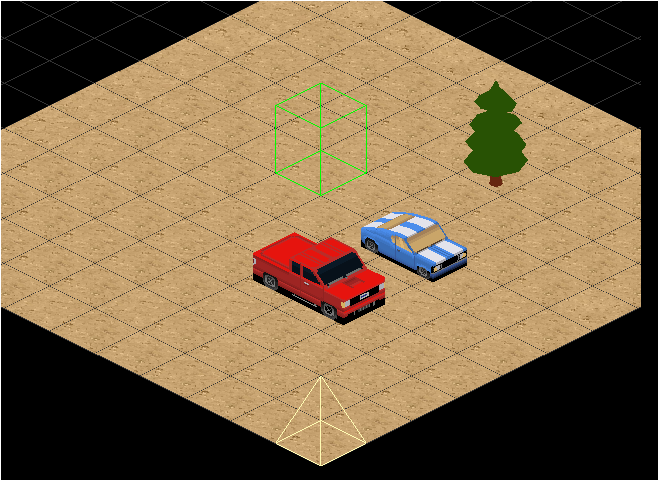
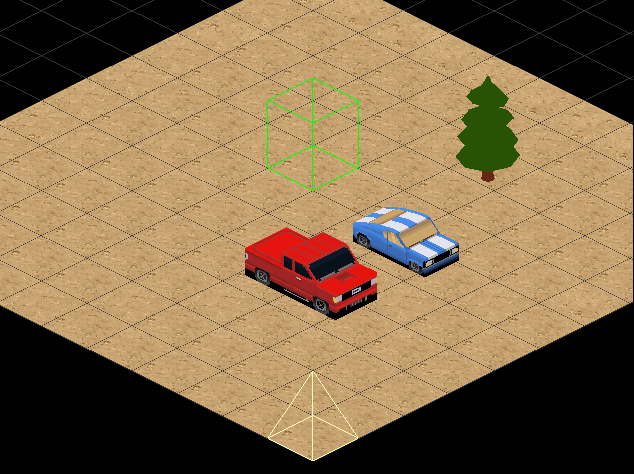
at least low speed turning works

diff --git a/src/public/src/ui/PhysicsCanvas/Objects/Car/CarPhysicsBody.js b/src/public/src/ui/PhysicsCanvas/Objects/Car/CarPhysicsBody.js
@@ -1,6 +1,6 @@
-import {toRadians, vec2, clamp} from '@pkg/gl-math';
+import {clamp, lerp, toRadians, vec2} from '@pkg/gl-math';
 
-const GRAVITY = 9.81;
+// const GRAVITY = 9.81;
 
 /**
  * We want to push car to up if force is positive number
@@ -32,23 +32,22 @@ export default class CarPhysicsBody {
       velocity = vec2(0, 0),
 
       // rotations
-      angle = toRadians(30),
-      steerAngle = toRadians(-30), // relative to root angle
+      angle = toRadians(0),
+      steerAngle = toRadians(30), // relative to root angle
+      maxSteerAngle = toRadians(30),
 
       // left top corner
       pos = vec2(0, 0),
       size = vec2(0, 0),
+      massCenter = vec2(0.5, 0.5),
 
       // size of wheel relative to size
       wheelSize = vec2(0.2, 0.25),
 
-      // relative to pos
-      massCenter = vec2(0.5, 0.5),
-
       // distance between axle and mass center
       // normalized to size and mass center
       axles = {
-        front: -0.2,
+        front: -0.3,
         rear: 0.3,
       },
     } = {},
@@ -61,8 +60,9 @@ export default class CarPhysicsBody {
 
     this.angle = angle;
     this.steerAngle = steerAngle;
+    this.maxSteerAngle = maxSteerAngle;
 
-    this.massCenter = massCenter;
+    this.massCenter = vec2(0.5, 0.5 + lerp());
     this.size = size;
     this.pos = pos;
 
@@ -70,17 +70,6 @@ export default class CarPhysicsBody {
     this.axles = axles;
     this.wheelSize = wheelSize;
     this.wheelBase = axles.rear - axles.front;
-
-    // // gearbox
-    // this.gearsRatio = {
-    //   1: 2.66,
-    //   2: 1.78,
-    //   3: 1.30,
-    //   4: 1.0,
-    //   5: 0.74,
-    //   6: 0.50,
-    //   R: 2.90,
-    // };
 
     // todo: maybe adding support for more than 4 wheels will be good?
     this.wheels = [
@@ -92,84 +81,95 @@ export default class CarPhysicsBody {
     ];
   }
 
+  turn(delta) {
+    this.steerAngle = clamp(
+      -this.maxSteerAngle,
+      this.maxSteerAngle,
+      this.steerAngle + delta,
+    );
+  }
+
   update(delta) {
-    const {
-      angle, mass, velocity,
-      braking, wheelBase, axles,
-    } = this;
+    // const {mass, braking, velocity, weight, axles, wheelBase} = this;
 
-    const weight = GRAVITY * mass;
-    const unitCarDirection = vec2.normalize(
-      vec2.fromScalar(
-        // car is rotated, fromScalar function is accepting angle
-        // from -------- instead of ---|
-        1,
-        angle + CANVAS_ROTATION_SUFFIX,
-      ),
-    );
+    // const fTraction = vec2.mul(
+    //   40,
+    //   unitCarDirection,
+    // );
 
-    const fTraction = vec2.mul(
-      20,
-      unitCarDirection,
-    );
+    // // BRAKING
+    // const brakingConst = 50;
+    // const fBraking = (
+    //   braking
+    //     ? vec2.mul(-brakingConst, unitCarDirection)
+    //     : vec2(0, 0)
+    // );
 
-    // BRAKING
-    const brakingConst = 50;
-    const fBraking = (
-      braking
-        ? vec2.mul(-brakingConst, unitCarDirection)
-        : vec2(0, 0)
-    );
+    // /**
+    //  * AIR
+    //  *
+    //  * non arcade style:
+    //  * F(drag) = 0.5 * Cd * frontalArea * rho * (v ^ 2)
+    //  *
+    //  * rho = 1.29 // air density
+    //  * frontalArea = 2.2 // 2.2 m^2
+    //  * Cd = 0.3
+    //  *
+    //  * Cdrag = 0.5 * 0.3 * 2.2 * 1.29
+    //  * Crr = 30 * Cdrag
+    //  */
+    // const aerodynamicDragConst = 5;
+    // const fAeroDrag = vec2.mul(
+    //   -aerodynamicDragConst * vec2.len(velocity),
+    //   velocity,
+    // );
 
-    /**
-     * AIR
-     *
-     * non arcade style:
-     * F(drag) = 0.5 * Cd * frontalArea * rho * (v ^ 2)
-     *
-     * rho = 1.29 // air density
-     * frontalArea = 2.2 // 2.2 m^2
-     * Cd = 0.3
-     *
-     * Cdrag = 0.5 * 0.3 * 2.2 * 1.29
-     * Crr = 30 * Cdrag
-     */
-    const aerodynamicDragConst = 5;
-    const fAeroDrag = vec2.mul(
-      -aerodynamicDragConst * vec2.len(velocity),
-      velocity,
-    );
+    // // Rolling
+    // const rollingDragConst = 30;
+    // const fRollingDrag = vec2.mul(
+    //   -rollingDragConst,
+    //   velocity,
+    // );
 
-    // Rolling
-    const rollingDragConst = 30;
-    const fRollingDrag = vec2.mul(
-      -rollingDragConst,
-      velocity,
-    );
+    // TOTAL
+    // const F = vec2.compose.add(
+    //   fTraction,
+    //   fBraking,
+    //   // fAeroDrag,
+    //   // fRollingDrag,
+    // );
+    // const F = fTraction;
+
+    // // update velocity and pos
+    // this.acceleration = vec2.div(mass, F);
+    // this.velocity = vec2.add(
+    //   this.velocity,
+    //   vec2.mul(delta, this.acceleration),
+    // );
+
+    // this.pos = vec2.add(
+    //   this.pos,
+    //   vec2.mul(delta, this.velocity),
+    // );
 
     // Weight transfer and axles weights
     // calculate axles weights
-    const frontAxleWeight = (-axles.front / wheelBase) * weight;
-    const rearAxleWeight = (axles.rear / wheelBase) * weight;
+    // const frontAxleWeight = (-axles.front / wheelBase) * weight;
+    // const rearAxleWeight = (axles.rear / wheelBase) * weight;
+    const Speed = 2;
 
-    // TOTAL
-    const F = vec2.compose.add(
-      fTraction,
-      fBraking,
-      fAeroDrag,
-      fRollingDrag,
+    const rotateRadius = this.wheelBase * this.size.y / Math.sin(this.steerAngle);
+    const angularVelocity = Speed / rotateRadius;
+    this.angle += angularVelocity * delta;
+
+    // const weight = GRAVITY * mass;
+    const unitCarDirection = vec2.fromScalar(
+      // car is rotated, fromScalar function is accepting angle
+      // from -------- instead of ---|
+      Speed,
+      this.angle + CANVAS_ROTATION_SUFFIX,
     );
 
-    // update velocity and pos
-    this.acceleration = vec2.div(mass, F);
-    this.velocity = vec2.add(
-      this.velocity,
-      vec2.mul(delta, this.acceleration),
-    );
-
-    this.pos = vec2.add(
-      this.pos,
-      vec2.mul(delta, this.velocity),
-    );
+    this.pos = vec2.add(this.pos, unitCarDirection);
   }
 }

diff --git a/src/public/src/ui/PhysicsCanvas/PhysicsBoard.jsx b/src/public/src/ui/PhysicsCanvas/PhysicsBoard.jsx
@@ -1,6 +1,6 @@
 import {useMemo} from 'react';
 
-import {vec2} from '@pkg/gl-math';
+import {vec2, toRadians} from '@pkg/gl-math';
 import {createAnimationFrameRenderer} from '@pkg/isometric-renderer/FGL/viewport/createDtRenderLoop';
 
 import Car from './Objects/Car';
@@ -17,6 +17,22 @@ export default class PhysicsBoard {
         size: vec2(32, 64),
       },
     );
+
+    canvas.addEventListener('keydown', (e) => {
+      const rotateSpeed = toRadians(5);
+
+      switch (e.keyCode) {
+        case 37:
+          this.car.body.turn(-rotateSpeed);
+          break;
+
+        case 39:
+          this.car.body.turn(rotateSpeed);
+          break;
+
+        default:
+      }
+    });
 
     return this;
   }

diff --git a/src/public/src/ui/EditorCanvas/utils/triangularizePath.js b/src/public/src/ui/EditorCanvas/utils/triangularizePath.js
@@ -1,4 +1,4 @@
-import {triangle} from '@pkg/gl-math/classes';
+import {Triangle} from '@pkg/gl-math/classes';
 import expandPath from './expandPath';
 
 /**
@@ -15,13 +15,13 @@ const triangularizePath = ({width}, path) => {
     const nextIndex = (i + 1) % path.length;
 
     triangles.push(
-      triangle(
+      new Triangle(
         innerPath[i],
         outerPath[i],
         outerPath[nextIndex],
       ),
 
-      triangle(
+      new Triangle(
         outerPath[nextIndex],
         innerPath[i],
         innerPath[nextIndex],

diff --git a/src/public/src/ui/EditorCanvas/index.jsx b/src/public/src/ui/EditorCanvas/index.jsx
@@ -80,7 +80,7 @@ const renderTrack = (ctx, {area, step = 0.2}, track) => {
         interpolated,
       );
 
-      drawTriangles('#222222', 1, triangles, ctx);
+      drawTriangles('#666', 1, triangles, ctx);
     }
   }
 

diff --git a/src/packages/gl-math/src/math/index.js b/src/packages/gl-math/src/math/index.js
@@ -1,3 +1,4 @@
 export {default as toDegrees} from './toDegrees';
 export {default as toRadians} from './toRadians';
 export {default as clamp} from './clamp';
+export {default as lerp} from './lerp';

diff --git a/src/packages/gl-math/src/math/lerp.js b/src/packages/gl-math/src/math/lerp.js
@@ -1,0 +1,3 @@
+const lerp = (a, b, value) => a + (b - a) * value;
+
+export default lerp;
